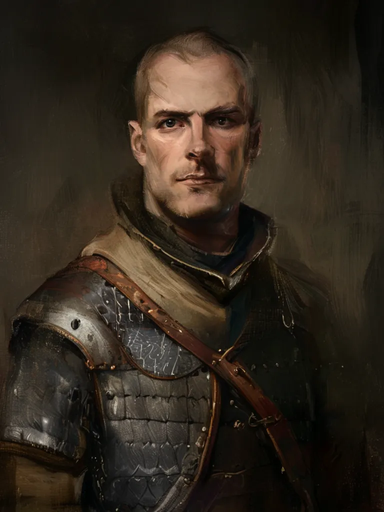
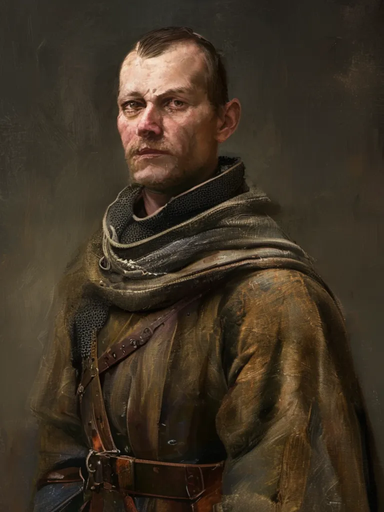
Sib Marrell empties cesspits, so stop painting him as a knight
Reported as the small portrait not matching the big one. The two images were
never the mismatch — the face is a pixel-exact crop of the bust, production is
byte-identical to local, sprite_key and bust_count are clean, and the art is
shared with nobody. What did not match was the painting and the character: a
nightman who empties Rivermark's cesspits by dark, in riveted mail and steel
pauldrons, looking exactly like the watch he is described as knowing the
underside of.

THE CAUSE IS IN THE PROMPT AND IT IS NOT ONLY HIS. PERIOD opens with "Wool,
linen, leather, riveted mail and hand-forged iron" to anchor the century — and
the model reads a list of materials as a WARDROBE. It is the first thing in
the prompt, where this model weights hardest, so it dresses anybody whose own
description does not dress them. Regenerating with the unchanged prompt
reproduced the same soldier, which is how the prompt was convicted rather than
the file.

WARDROBE is a per-key clause for the trades PERIOD gets wrong, and getting it
right took the two findings gen_race_art.py already records. Naming what the
model is SUBSTITUTING beats describing the right thing harder — "No armour"
does more than any amount of oilskin. And length is displacement, not
emphasis: the first draft was two sentences, which removed most of the armour
and cost the shot, because FRAMING sits between PERIOD and the subject and a
long clause in front of it pushes the framing out. The bust came back as a
[…]

diff --git a/src/tools/gen_npc_art.py b/src/tools/gen_npc_art.py
@@ -66,6 +66,48 @@ SKIP = {"pc_1534", "pc_173", "pc_434", "npc_kessa"}
 # gen_location_art.py: this model runs without classifier-free guidance, the
 # negative prompt below is inert, and the positive prompt is weighted toward
 # what it reads first.
+# Trades the PERIOD clause dresses wrongly, and it is worth being exact about
+# why rather than treating each as a one-off.
+#
+# PERIOD opens with "Wool, linen, leather, riveted mail and hand-forged iron"
+# to anchor the century. The model reads a list of materials as a WARDROBE,
+# and it is the first thing in the prompt — where, per the note in
+# gen_location_art.py, this model weights hardest. So it dresses anybody whose
+# own description does not dress them. Sib Marrell empties Rivermark's
+# cesspits by dark and came back in riveted mail and steel pauldrons, twice,
+# on two separate generations: he looked exactly like the watch he is
+# described as knowing the underside of.
+#
+# The remedy is the one gen_race_art.py arrived at for dragonborn and half-orc
+# — name the thing the model is SUBSTITUTING rather than describing the right
+# thing harder, and put it where the weight is. "No armour, not a guard" does
+# more work here than any amount of oilskin.
+#
+# Only keys that need it. A character whose description already dresses them
+# does not belong in this table.
+# SHORT, and said twice. The first draft of Sib's entry was two sentences of
+# oilskin and negation; it removed most of the armour and cost the shot — the
+# bust came back as a full standing figure with the head small in frame,
+# because FRAMING sits between PERIOD and the subject and a long clause in
+# front of it is displacement rather than emphasis. That is the finding
+# gen_race_art.py records almost word for word: lengthening a clause to insist
+# harder buys the insistence out of something else.
+#
+# So each entry is one short phrase, placed twice — once after PERIOD where the
+# weight is and the mail was just named, once after the description where
+# there is room. Same trick that made "back to back" survive in the race
+# plates.
+# The seed each of these shipped on, for the reason gen_module_cover.py keeps
+# SHIPPED_SEED: the same seed and prompt reproduce the file on disk, and
+# without it "regenerate that one" is a fresh roll of the dice. --seed is how
+# to ask for it. Sib went out on 3; the default 11 and two others still put him
+# in a mail shirt, and the wardrobe clause alone was not enough to shift it.
+SHIPPED_SEED = {"sib_marrell": 3}
+
+WARDROBE = {
+    "sib_marrell": "No armour: oilskin cape over coarse wool.",
+}
+
 PERIOD = (
     "Medieval fantasy. Pre-industrial. Wool, linen, leather, riveted mail and "
     "hand-forged iron. No modern clothing of any kind — no peaked caps, no "
@@ -318,8 +360,10 @@ def build_prompt(key: str, wearers: list[dict], expression: int = 1) -> str:
         race = " ".join(x for x in [w.get("race"), w.get("class")] if x)
         sex = GENDER.get(key)
         who_is = f"{who}, a {sex}," if sex else f"{who},"
-        bits = [PERIOD, FRAMING, who_is, f"{role}." if role else "",
-                f"{race}." if race else "", desc]
+        wardrobe = WARDROBE.get(key, "")
+        bits = [PERIOD, wardrobe, FRAMING, who_is,
+                f"{role}." if role else "",
+                f"{race}." if race else "", desc, wardrobe]
     else:
         bits = [PERIOD, FRAMING, ARCHETYPE.get(key, key.replace("_", " ")) + "."]
     bits.append(STYLE)
